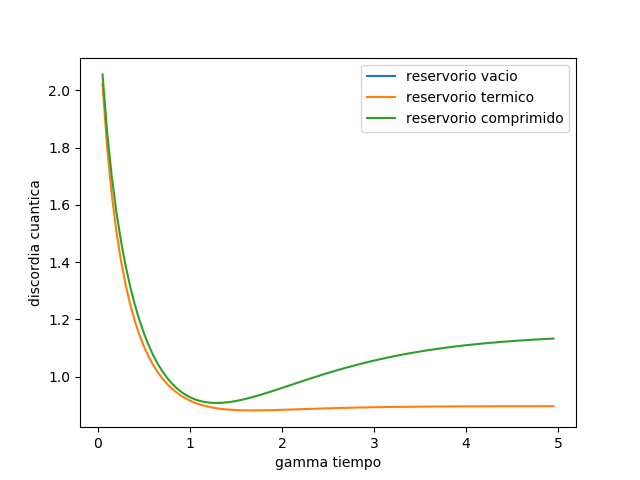
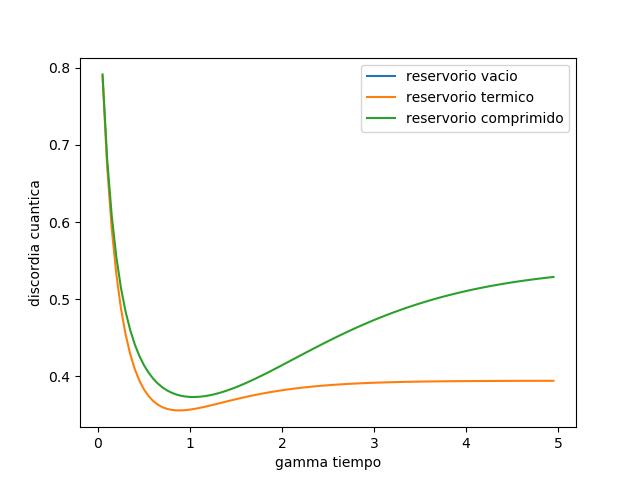
Cambio generado con script

diff --git a/master.py b/master.py
@@ -63,7 +63,7 @@ for i in range (0,100):
       consar=np.array([c1,c2,c3])
       c=np.amax(consar)
       conc_I1_S0S[i]=concurrence(mat)
-      disc_I1_S0S[i]=mat.eigenenergies()[0]*np.log(4*mat.eigenenergies()[0])+mat.eigenenergies()[1]*np.log(4*mat.eigenenergies()[1])+mat.eigenenergies()[2]*np.log(4*mat.eigenenergies()[2])+mat.eigenenergies()[3]*np.log(4*mat.eigenenergies()[3])+0.5*(-(1+c)*np.log2(np.absolute(1+c))-(1-c)*np.log2(np.absolute(1-c)))
+      disc_I1_S0S[i]=mat.eigenenergies()[0]*np.log2(4*mat.eigenenergies()[0])+mat.eigenenergies()[1]*np.log2(4*mat.eigenenergies()[1])+mat.eigenenergies()[2]*np.log2(4*mat.eigenenergies()[2])+mat.eigenenergies()[3]*np.log2(4*mat.eigenenergies()[3])+0.5*(-(1+c)*np.log2(np.absolute(1+c))-(1-c)*np.log2(np.absolute(1-c)))
 
 for i in range (0,100):
       mat=Qobj(em_I2_S0S.states[i])
@@ -74,7 +74,7 @@ for i in range (0,100):
       consar=np.array([c1,c2,c3])
       c=np.amax(consar)
       conc_I2_S0S[i]=concurrence(mat)
-      disc_I2_S0S[i]=mat.eigenenergies()[0]*np.log(4*mat.eigenenergies()[0])+mat.eigenenergies()[1]*np.log(4*mat.eigenenergies()[1])+mat.eigenenergies()[2]*np.log(4*mat.eigenenergies()[2])+mat.eigenenergies()[3]*np.log(4*mat.eigenenergies()[3])+0.5*(-(1+c)*np.log2(np.absolute(1+c))-(1-c)*np.log2(np.absolute(1-c)))
+      disc_I2_S0S[i]=mat.eigenenergies()[0]*np.log2(4*mat.eigenenergies()[0])+mat.eigenenergies()[1]*np.log2(4*mat.eigenenergies()[1])+mat.eigenenergies()[2]*np.log2(4*mat.eigenenergies()[2])+mat.eigenenergies()[3]*np.log2(4*mat.eigenenergies()[3])+0.5*(-(1+c)*np.log2(np.absolute(1+c))-(1-c)*np.log2(np.absolute(1-c)))
 
 
 for i in range (0,100):
@@ -86,7 +86,7 @@ for i in range (0,100):
       consar=np.array([c1,c2,c3])
       c=np.amax(consar)
       conc_I3_S0S[i]=concurrence(mat)
-      disc_I3_S0S[i]=mat.eigenenergies()[0]*np.log(4*mat.eigenenergies()[0])+mat.eigenenergies()[1]*np.log(4*mat.eigenenergies()[1])+mat.eigenenergies()[2]*np.log(4*mat.eigenenergies()[2])+mat.eigenenergies()[3]*np.log(4*mat.eigenenergies()[3])+0.5*(-(1+c)*np.log2(np.absolute(1+c))-(1-c)*np.log2(np.absolute(1-c)))
+      disc_I3_S0S[i]=mat.eigenenergies()[0]*np.log2(4*mat.eigenenergies()[0])+mat.eigenenergies()[1]*np.log2(4*mat.eigenenergies()[1])+mat.eigenenergies()[2]*np.log2(4*mat.eigenenergies()[2])+mat.eigenenergies()[3]*np.log2(4*mat.eigenenergies()[3])+0.5*(-(1+c)*np.log2(np.absolute(1+c))-(1-c)*np.log2(np.absolute(1-c)))
 
 
 for i in range (0,100):
@@ -98,7 +98,7 @@ for i in range (0,100):
       consar=np.array([c1,c2,c3])
       c=np.amax(consar)
       conc_I4_S0S[i]=concurrence(mat)
-      disc_I4_S0S[i]=mat.eigenenergies()[0]*np.log(4*mat.eigenenergies()[0])+mat.eigenenergies()[1]*np.log(4*mat.eigenenergies()[1])+mat.eigenenergies()[2]*np.log(4*mat.eigenenergies()[2])+mat.eigenenergies()[3]*np.log(4*mat.eigenenergies()[3])+0.5*(-(1+c)*np.log2(np.absolute(1+c))-(1-c)*np.log2(np.absolute(1-c)))
+      disc_I4_S0S[i]=mat.eigenenergies()[0]*np.log2(4*mat.eigenenergies()[0])+mat.eigenenergies()[1]*np.log2(4*mat.eigenenergies()[1])+mat.eigenenergies()[2]*np.log2(4*mat.eigenenergies()[2])+mat.eigenenergies()[3]*np.log2(4*mat.eigenenergies()[3])+0.5*(-(1+c)*np.log2(np.absolute(1+c))-(1-c)*np.log2(np.absolute(1-c)))
 
 
 for i in range (0,100):
@@ -110,7 +110,7 @@ for i in range (0,100):
       consar=np.array([c1,c2,c3])
       c=np.amax(consar)
       conc_I5_S0S[i]=concurrence(mat)
-      disc_I5_S0S[i]=mat.eigenenergies()[0]*np.log(4*mat.eigenenergies()[0])+mat.eigenenergies()[1]*np.log(4*mat.eigenenergies()[1])+mat.eigenenergies()[2]*np.log(4*mat.eigenenergies()[2])+mat.eigenenergies()[3]*np.log(4*mat.eigenenergies()[3])+0.5*(-(1+c)*np.log2(np.absolute(1+c))-(1-c)*np.log2(np.absolute(1-c)))
+      disc_I5_S0S[i]=mat.eigenenergies()[0]*np.log2(4*mat.eigenenergies()[0])+mat.eigenenergies()[1]*np.log2(4*mat.eigenenergies()[1])+mat.eigenenergies()[2]*np.log2(4*mat.eigenenergies()[2])+mat.eigenenergies()[3]*np.log2(4*mat.eigenenergies()[3])+0.5*(-(1+c)*np.log2(np.absolute(1+c))-(1-c)*np.log2(np.absolute(1-c)))
 
 
 #Reservorio térmico sin interacción
@@ -133,7 +133,7 @@ for i in range (0,100):
       consar=np.array([c1,c2,c3])
       c=np.amax(consar)
       conc_I1_S1S[i]=concurrence(mat)
-      disc_I1_S1S[i]=mat.eigenenergies()[0]*np.log(4*mat.eigenenergies()[0])+mat.eigenenergies()[1]*np.log(4*mat.eigenenergies()[1])+mat.eigenenergies()[2]*np.log(4*mat.eigenenergies()[2])+mat.eigenenergies()[3]*np.log(4*mat.eigenenergies()[3])+0.5*(-(1+c)*np.log2(np.absolute(1+c))-(1-c)*np.log2(np.absolute(1-c)))
+      disc_I1_S1S[i]=mat.eigenenergies()[0]*np.log2(4*mat.eigenenergies()[0])+mat.eigenenergies()[1]*np.log2(4*mat.eigenenergies()[1])+mat.eigenenergies()[2]*np.log2(4*mat.eigenenergies()[2])+mat.eigenenergies()[3]*np.log2(4*mat.eigenenergies()[3])+0.5*(-(1+c)*np.log2(np.absolute(1+c))-(1-c)*np.log2(np.absolute(1-c)))
 
 
 for i in range (0,100):
@@ -145,7 +145,7 @@ for i in range (0,100):
     consar=np.array([c1,c2,c3])
     c=np.amax(consar)
     conc_I2_S1S[i]=concurrence(mat)
-    disc_I2_S1S[i]=mat.eigenenergies()[0]*np.log(4*mat.eigenenergies()[0])+mat.eigenenergies()[1]*np.log(4*mat.eigenenergies()[1])+mat.eigenenergies()[2]*np.log(4*mat.eigenenergies()[2])+mat.eigenenergies()[3]*np.log(4*mat.eigenenergies()[3])+0.5*(-(1+c)*np.log2(np.absolute(1+c))-(1-c)*np.log2(np.absolute(1-c)))
+    disc_I2_S1S[i]=mat.eigenenergies()[0]*np.log2(4*mat.eigenenergies()[0])+mat.eigenenergies()[1]*np.log2(4*mat.eigenenergies()[1])+mat.eigenenergies()[2]*np.log2(4*mat.eigenenergies()[2])+mat.eigenenergies()[3]*np.log2(4*mat.eigenenergies()[3])+0.5*(-(1+c)*np.log2(np.absolute(1+c))-(1-c)*np.log2(np.absolute(1-c)))
 
 
 for i in range (0,100):
@@ -157,7 +157,7 @@ for i in range (0,100):
     consar=np.array([c1,c2,c3])
     c=np.amax(consar)
     conc_I3_S1S[i]=concurrence(mat)
-    disc_I3_S1S[i]=mat.eigenenergies()[0]*np.log(4*mat.eigenenergies()[0])+mat.eigenenergies()[1]*np.log(4*mat.eigenenergies()[1])+mat.eigenenergies()[2]*np.log(4*mat.eigenenergies()[2])+mat.eigenenergies()[3]*np.log(4*mat.eigenenergies()[3])+0.5*(-(1+c)*np.log2(np.absolute(1+c))-(1-c)*np.log2(np.absolute(1-c)))
+    disc_I3_S1S[i]=mat.eigenenergies()[0]*np.log2(4*mat.eigenenergies()[0])+mat.eigenenergies()[1]*np.log2(4*mat.eigenenergies()[1])+mat.eigenenergies()[2]*np.log2(4*mat.eigenenergies()[2])+mat.eigenenergies()[3]*np.log2(4*mat.eigenenergies()[3])+0.5*(-(1+c)*np.log2(np.absolute(1+c))-(1-c)*np.log2(np.absolute(1-c)))
 
 
 for i in range (0,100):
@@ -169,7 +169,7 @@ for i in range (0,100):
     consar=np.array([c1,c2,c3])
     c=np.amax(consar)
     conc_I4_S1S[i]=concurrence(mat)
-    disc_I4_S1S[i]=mat.eigenenergies()[0]*np.log(4*mat.eigenenergies()[0])+mat.eigenenergies()[1]*np.log(4*mat.eigenenergies()[1])+mat.eigenenergies()[2]*np.log(4*mat.eigenenergies()[2])+mat.eigenenergies()[3]*np.log(4*mat.eigenenergies()[3])+0.5*(-(1+c)*np.log2(np.absolute(1+c))-(1-c)*np.log2(np.absolute(1-c)))
+    disc_I4_S1S[i]=mat.eigenenergies()[0]*np.log2(4*mat.eigenenergies()[0])+mat.eigenenergies()[1]*np.log2(4*mat.eigenenergies()[1])+mat.eigenenergies()[2]*np.log2(4*mat.eigenenergies()[2])+mat.eigenenergies()[3]*np.log2(4*mat.eigenenergies()[3])+0.5*(-(1+c)*np.log2(np.absolute(1+c))-(1-c)*np.log2(np.absolute(1-c)))
 
 
 for i in range (0,100):
@@ -181,7 +181,7 @@ for i in range (0,100):
     consar=np.array([c1,c2,c3])
     c=np.amax(consar)
     conc_I5_S1S[i]=concurrence(mat)
-    disc_I5_S1S[i]=mat.eigenenergies()[0]*np.log(4*mat.eigenenergies()[0])+mat.eigenenergies()[1]*np.log(4*mat.eigenenergies()[1])+mat.eigenenergies()[2]*np.log(4*mat.eigenenergies()[2])+mat.eigenenergies()[3]*np.log(4*mat.eigenenergies()[3])+0.5*(-(1+c)*np.log2(np.absolute(1+c))-(1-c)*np.log2(np.absolute(1-c)))
+    disc_I5_S1S[i]=mat.eigenenergies()[0]*np.log2(4*mat.eigenenergies()[0])+mat.eigenenergies()[1]*np.log2(4*mat.eigenenergies()[1])+mat.eigenenergies()[2]*np.log2(4*mat.eigenenergies()[2])+mat.eigenenergies()[3]*np.log2(4*mat.eigenenergies()[3])+0.5*(-(1+c)*np.log2(np.absolute(1+c))-(1-c)*np.log2(np.absolute(1-c)))
 
 
 #Reservorio comprimido sin interacción
@@ -204,7 +204,7 @@ for i in range (0,100):
     consar=np.array([c1,c2,c3])
     c=np.amax(consar)
     conc_I1_S2S[i]=concurrence(mat)
-    disc_I1_S2S[i]=mat.eigenenergies()[0]*np.log(4*mat.eigenenergies()[0])+mat.eigenenergies()[1]*np.log(4*mat.eigenenergies()[1])+mat.eigenenergies()[2]*np.log(4*mat.eigenenergies()[2])+mat.eigenenergies()[3]*np.log(4*mat.eigenenergies()[3])+0.5*(-(1+c)*np.log2(np.absolute(1+c))-(1-c)*np.log2(np.absolute(1-c)))
+    disc_I1_S2S[i]=mat.eigenenergies()[0]*np.log2(4*mat.eigenenergies()[0])+mat.eigenenergies()[1]*np.log2(4*mat.eigenenergies()[1])+mat.eigenenergies()[2]*np.log2(4*mat.eigenenergies()[2])+mat.eigenenergies()[3]*np.log2(4*mat.eigenenergies()[3])+0.5*(-(1+c)*np.log2(np.absolute(1+c))-(1-c)*np.log2(np.absolute(1-c)))
 
 for i in range (0,100):
     mat=Qobj(em_I2_S2S.states[i])
@@ -215,7 +215,7 @@ for i in range (0,100):
     consar=np.array([c1,c2,c3])
     c=np.amax(consar)
     conc_I2_S2S[i]=concurrence(mat)
-    disc_I2_S2S[i]=mat.eigenenergies()[0]*np.log(4*mat.eigenenergies()[0])+mat.eigenenergies()[1]*np.log(4*mat.eigenenergies()[1])+mat.eigenenergies()[2]*np.log(4*mat.eigenenergies()[2])+mat.eigenenergies()[3]*np.log(4*mat.eigenenergies()[3])+0.5*(-(1+c)*np.log2(np.absolute(1+c))-(1-c)*np.log2(np.absolute(1-c)))
+    disc_I2_S2S[i]=mat.eigenenergies()[0]*np.log2(4*mat.eigenenergies()[0])+mat.eigenenergies()[1]*np.log2(4*mat.eigenenergies()[1])+mat.eigenenergies()[2]*np.log2(4*mat.eigenenergies()[2])+mat.eigenenergies()[3]*np.log2(4*mat.eigenenergies()[3])+0.5*(-(1+c)*np.log2(np.absolute(1+c))-(1-c)*np.log2(np.absolute(1-c)))
 
 for i in range (0,100):
     mat=Qobj(em_I3_S2S.states[i])
@@ -226,7 +226,7 @@ for i in range (0,100):
     consar=np.array([c1,c2,c3])
     c=np.amax(consar)
     conc_I3_S2S[i]=concurrence(mat)
-    disc_I3_S2S[i]=mat.eigenenergies()[0]*np.log(4*mat.eigenenergies()[0])+mat.eigenenergies()[1]*np.log(4*mat.eigenenergies()[1])+mat.eigenenergies()[2]*np.log(4*mat.eigenenergies()[2])+mat.eigenenergies()[3]*np.log(4*mat.eigenenergies()[3])+0.5*(-(1+c)*np.log2(np.absolute(1+c))-(1-c)*np.log2(np.absolute(1-c)))
+    disc_I3_S2S[i]=mat.eigenenergies()[0]*np.log2(4*mat.eigenenergies()[0])+mat.eigenenergies()[1]*np.log2(4*mat.eigenenergies()[1])+mat.eigenenergies()[2]*np.log2(4*mat.eigenenergies()[2])+mat.eigenenergies()[3]*np.log2(4*mat.eigenenergies()[3])+0.5*(-(1+c)*np.log2(np.absolute(1+c))-(1-c)*np.log2(np.absolute(1-c)))
 
 
 for i in range (0,100):
@@ -238,7 +238,7 @@ for i in range (0,100):
     consar=np.array([c1,c2,c3])
     c=np.amax(consar)
     conc_I4_S2S[i]=concurrence(mat)
-    disc_I4_S2S[i]=mat.eigenenergies()[0]*np.log(4*mat.eigenenergies()[0])+mat.eigenenergies()[1]*np.log(4*mat.eigenenergies()[1])+mat.eigenenergies()[2]*np.log(4*mat.eigenenergies()[2])+mat.eigenenergies()[3]*np.log(4*mat.eigenenergies()[3])+0.5*(-(1+c)*np.log2(np.absolute(1+c))-(1-c)*np.log2(np.absolute(1-c)))
+    disc_I4_S2S[i]=mat.eigenenergies()[0]*np.log2(4*mat.eigenenergies()[0])+mat.eigenenergies()[1]*np.log2(4*mat.eigenenergies()[1])+mat.eigenenergies()[2]*np.log2(4*mat.eigenenergies()[2])+mat.eigenenergies()[3]*np.log2(4*mat.eigenenergies()[3])+0.5*(-(1+c)*np.log2(np.absolute(1+c))-(1-c)*np.log2(np.absolute(1-c)))
 
 
 for i in range (0,100):
@@ -250,7 +250,7 @@ for i in range (0,100):
     consar=np.array([c1,c2,c3])
     c=np.amax(consar)
     conc_I5_S2S[i]=concurrence(mat)
-    disc_I5_S2S[i]=mat.eigenenergies()[0]*np.log(4*mat.eigenenergies()[0])+mat.eigenenergies()[1]*np.log(4*mat.eigenenergies()[1])+mat.eigenenergies()[2]*np.log(4*mat.eigenenergies()[2])+mat.eigenenergies()[3]*np.log(4*mat.eigenenergies()[3])+0.5*(-(1+c)*np.log2(np.absolute(1+c))-(1-c)*np.log2(np.absolute(1-c)))
+    disc_I5_S2S[i]=mat.eigenenergies()[0]*np.log2(4*mat.eigenenergies()[0])+mat.eigenenergies()[1]*np.log2(4*mat.eigenenergies()[1])+mat.eigenenergies()[2]*np.log2(4*mat.eigenenergies()[2])+mat.eigenenergies()[3]*np.log2(4*mat.eigenenergies()[3])+0.5*(-(1+c)*np.log2(np.absolute(1+c))-(1-c)*np.log2(np.absolute(1-c)))
 
 
 #Reservorio vacío con interacción
@@ -273,7 +273,7 @@ for i in range (0,100):
     consar=np.array([c1,c2,c3])
     c=np.amax(consar)
     conc_I1_S0C[i]=concurrence(mat)
-    disc_I1_S0C[i]=mat.eigenenergies()[0]*np.log(4*mat.eigenenergies()[0])+mat.eigenenergies()[1]*np.log(4*mat.eigenenergies()[1])+mat.eigenenergies()[2]*np.log(4*mat.eigenenergies()[2])+mat.eigenenergies()[3]*np.log(4*mat.eigenenergies()[3])+0.5*(-(1+c)*np.log2(np.absolute(1+c))-(1-c)*np.log2(np.absolute(1-c)))
+    disc_I1_S0C[i]=mat.eigenenergies()[0]*np.log2(4*mat.eigenenergies()[0])+mat.eigenenergies()[1]*np.log2(4*mat.eigenenergies()[1])+mat.eigenenergies()[2]*np.log2(4*mat.eigenenergies()[2])+mat.eigenenergies()[3]*np.log2(4*mat.eigenenergies()[3])+0.5*(-(1+c)*np.log2(np.absolute(1+c))-(1-c)*np.log2(np.absolute(1-c)))
 
 
 for i in range (0,100):
@@ -285,7 +285,7 @@ for i in range (0,100):
     consar=np.array([c1,c2,c3])
     c=np.amax(consar)
     conc_I2_S0C[i]=concurrence(mat)
-    disc_I2_S0C[i]=mat.eigenenergies()[0]*np.log(4*mat.eigenenergies()[0])+mat.eigenenergies()[1]*np.log(4*mat.eigenenergies()[1])+mat.eigenenergies()[2]*np.log(4*mat.eigenenergies()[2])+mat.eigenenergies()[3]*np.log(4*mat.eigenenergies()[3])+0.5*(-(1+c)*np.log2(np.absolute(1+c))-(1-c)*np.log2(np.absolute(1-c)))
+    disc_I2_S0C[i]=mat.eigenenergies()[0]*np.log2(4*mat.eigenenergies()[0])+mat.eigenenergies()[1]*np.log2(4*mat.eigenenergies()[1])+mat.eigenenergies()[2]*np.log2(4*mat.eigenenergies()[2])+mat.eigenenergies()[3]*np.log2(4*mat.eigenenergies()[3])+0.5*(-(1+c)*np.log2(np.absolute(1+c))-(1-c)*np.log2(np.absolute(1-c)))
 
 
 for i in range (0,100):
@@ -297,7 +297,7 @@ for i in range (0,100):
     consar=np.array([c1,c2,c3])
     c=np.amax(consar)
     conc_I3_S0C[i]=concurrence(mat)
-    disc_I3_S0C[i]=mat.eigenenergies()[0]*np.log(4*mat.eigenenergies()[0])+mat.eigenenergies()[1]*np.log(4*mat.eigenenergies()[1])+mat.eigenenergies()[2]*np.log(4*mat.eigenenergies()[2])+mat.eigenenergies()[3]*np.log(4*mat.eigenenergies()[3])+0.5*(-(1+c)*np.log2(np.absolute(1+c))-(1-c)*np.log2(np.absolute(1-c)))
+    disc_I3_S0C[i]=mat.eigenenergies()[0]*np.log2(4*mat.eigenenergies()[0])+mat.eigenenergies()[1]*np.log2(4*mat.eigenenergies()[1])+mat.eigenenergies()[2]*np.log2(4*mat.eigenenergies()[2])+mat.eigenenergies()[3]*np.log2(4*mat.eigenenergies()[3])+0.5*(-(1+c)*np.log2(np.absolute(1+c))-(1-c)*np.log2(np.absolute(1-c)))
 
 
 for i in range (0,100):
@@ -309,7 +309,7 @@ for i in range (0,100):
     consar=np.array([c1,c2,c3])
     c=np.amax(consar)
     conc_I4_S0C[i]=concurrence(mat)
-    disc_I4_S0C[i]=mat.eigenenergies()[0]*np.log(4*mat.eigenenergies()[0])+mat.eigenenergies()[1]*np.log(4*mat.eigenenergies()[1])+mat.eigenenergies()[2]*np.log(4*mat.eigenenergies()[2])+mat.eigenenergies()[3]*np.log(4*mat.eigenenergies()[3])+0.5*(-(1+c)*np.log2(np.absolute(1+c))-(1-c)*np.log2(np.absolute(1-c)))
+    disc_I4_S0C[i]=mat.eigenenergies()[0]*np.log2(4*mat.eigenenergies()[0])+mat.eigenenergies()[1]*np.log2(4*mat.eigenenergies()[1])+mat.eigenenergies()[2]*np.log2(4*mat.eigenenergies()[2])+mat.eigenenergies()[3]*np.log2(4*mat.eigenenergies()[3])+0.5*(-(1+c)*np.log2(np.absolute(1+c))-(1-c)*np.log2(np.absolute(1-c)))
 
 
 for i in range (0,100):
@@ -321,7 +321,7 @@ for i in range (0,100):
     consar=np.array([c1,c2,c3])
     c=np.amax(consar)
     conc_I5_S0C[i]=concurrence(mat)
-    disc_I5_S0C[i]=mat.eigenenergies()[0]*np.log(4*mat.eigenenergies()[0])+mat.eigenenergies()[1]*np.log(4*mat.eigenenergies()[1])+mat.eigenenergies()[2]*np.log(4*mat.eigenenergies()[2])+mat.eigenenergies()[3]*np.log(4*mat.eigenenergies()[3])+0.5*(-(1+c)*np.log2(np.absolute(1+c))-(1-c)*np.log2(np.absolute(1-c)))
+    disc_I5_S0C[i]=mat.eigenenergies()[0]*np.log2(4*mat.eigenenergies()[0])+mat.eigenenergies()[1]*np.log2(4*mat.eigenenergies()[1])+mat.eigenenergies()[2]*np.log2(4*mat.eigenenergies()[2])+mat.eigenenergies()[3]*np.log2(4*mat.eigenenergies()[3])+0.5*(-(1+c)*np.log2(np.absolute(1+c))-(1-c)*np.log2(np.absolute(1-c)))
 
 
 #Reservorio térmico con interacción
@@ -344,7 +344,7 @@ for i in range (0,100):
     consar=np.array([c1,c2,c3])
     c=np.amax(consar)
     conc_I1_S1C[i]=concurrence(mat)
-    disc_I1_S1C[i]=mat.eigenenergies()[0]*np.log(4*mat.eigenenergies()[0])+mat.eigenenergies()[1]*np.log(4*mat.eigenenergies()[1])+mat.eigenenergies()[2]*np.log(4*mat.eigenenergies()[2])+mat.eigenenergies()[3]*np.log(4*mat.eigenenergies()[3])+0.5*(-(1+c)*np.log2(np.absolute(1+c))-(1-c)*np.log2(np.absolute(1-c)))
+    disc_I1_S1C[i]=mat.eigenenergies()[0]*np.log2(4*mat.eigenenergies()[0])+mat.eigenenergies()[1]*np.log2(4*mat.eigenenergies()[1])+mat.eigenenergies()[2]*np.log2(4*mat.eigenenergies()[2])+mat.eigenenergies()[3]*np.log2(4*mat.eigenenergies()[3])+0.5*(-(1+c)*np.log2(np.absolute(1+c))-(1-c)*np.log2(np.absolute(1-c)))
 
     
 for i in range (0,100):
@@ -356,7 +356,7 @@ for i in range (0,100):
     consar=np.array([c1,c2,c3])
     c=np.amax(consar)
     conc_I2_S1C[i]=concurrence(mat)
-    disc_I2_S1C[i]=mat.eigenenergies()[0]*np.log(4*mat.eigenenergies()[0])+mat.eigenenergies()[1]*np.log(4*mat.eigenenergies()[1])+mat.eigenenergies()[2]*np.log(4*mat.eigenenergies()[2])+mat.eigenenergies()[3]*np.log(4*mat.eigenenergies()[3])+0.5*(-(1+c)*np.log2(np.absolute(1+c))-(1-c)*np.log2(np.absolute(1-c)))
+    disc_I2_S1C[i]=mat.eigenenergies()[0]*np.log2(4*mat.eigenenergies()[0])+mat.eigenenergies()[1]*np.log2(4*mat.eigenenergies()[1])+mat.eigenenergies()[2]*np.log2(4*mat.eigenenergies()[2])+mat.eigenenergies()[3]*np.log2(4*mat.eigenenergies()[3])+0.5*(-(1+c)*np.log2(np.absolute(1+c))-(1-c)*np.log2(np.absolute(1-c)))
 
 
 for i in range (0,100):
@@ -368,7 +368,7 @@ for i in range (0,100):
     consar=np.array([c1,c2,c3])
     c=np.amax(consar)
     conc_I3_S1C[i]=concurrence(mat)
-    disc_I3_S1C[i]=mat.eigenenergies()[0]*np.log(4*mat.eigenenergies()[0])+mat.eigenenergies()[1]*np.log(4*mat.eigenenergies()[1])+mat.eigenenergies()[2]*np.log(4*mat.eigenenergies()[2])+mat.eigenenergies()[3]*np.log(4*mat.eigenenergies()[3])+0.5*(-(1+c)*np.log2(np.absolute(1+c))-(1-c)*np.log2(np.absolute(1-c)))
+    disc_I3_S1C[i]=mat.eigenenergies()[0]*np.log2(4*mat.eigenenergies()[0])+mat.eigenenergies()[1]*np.log2(4*mat.eigenenergies()[1])+mat.eigenenergies()[2]*np.log2(4*mat.eigenenergies()[2])+mat.eigenenergies()[3]*np.log2(4*mat.eigenenergies()[3])+0.5*(-(1+c)*np.log2(np.absolute(1+c))-(1-c)*np.log2(np.absolute(1-c)))
 
 
 for i in range (0,100):
@@ -380,7 +380,7 @@ for i in range (0,100):
     consar=np.array([c1,c2,c3])
     c=np.amax(consar)
     conc_I4_S1C[i]=concurrence(mat)
-    disc_I4_S1C[i]=mat.eigenenergies()[0]*np.log(4*mat.eigenenergies()[0])+mat.eigenenergies()[1]*np.log(4*mat.eigenenergies()[1])+mat.eigenenergies()[2]*np.log(4*mat.eigenenergies()[2])+mat.eigenenergies()[3]*np.log(4*mat.eigenenergies()[3])+0.5*(-(1+c)*np.log2(np.absolute(1+c))-(1-c)*np.log2(np.absolute(1-c)))
+    disc_I4_S1C[i]=mat.eigenenergies()[0]*np.log2(4*mat.eigenenergies()[0])+mat.eigenenergies()[1]*np.log2(4*mat.eigenenergies()[1])+mat.eigenenergies()[2]*np.log2(4*mat.eigenenergies()[2])+mat.eigenenergies()[3]*np.log2(4*mat.eigenenergies()[3])+0.5*(-(1+c)*np.log2(np.absolute(1+c))-(1-c)*np.log2(np.absolute(1-c)))
 
 
 for i in range (0,100):
@@ -392,7 +392,7 @@ for i in range (0,100):
     consar=np.array([c1,c2,c3])
     c=np.amax(consar)
     conc_I5_S1C[i]=concurrence(mat)
-    disc_I5_S1C[i]=mat.eigenenergies()[0]*np.log(4*mat.eigenenergies()[0])+mat.eigenenergies()[1]*np.log(4*mat.eigenenergies()[1])+mat.eigenenergies()[2]*np.log(4*mat.eigenenergies()[2])+mat.eigenenergies()[3]*np.log(4*mat.eigenenergies()[3])+0.5*(-(1+c)*np.log2(np.absolute(1+c))-(1-c)*np.log2(np.absolute(1-c)))
+    disc_I5_S1C[i]=mat.eigenenergies()[0]*np.log2(4*mat.eigenenergies()[0])+mat.eigenenergies()[1]*np.log2(4*mat.eigenenergies()[1])+mat.eigenenergies()[2]*np.log2(4*mat.eigenenergies()[2])+mat.eigenenergies()[3]*np.log2(4*mat.eigenenergies()[3])+0.5*(-(1+c)*np.log2(np.absolute(1+c))-(1-c)*np.log2(np.absolute(1-c)))
 
 
 #Reservorio comprimido con interacción
@@ -415,7 +415,7 @@ for i in range (0,100):
     consar=np.array([c1,c2,c3])
     c=np.amax(consar)
     conc_I1_S2C[i]=concurrence(mat)
-    disc_I1_S2C[i]=mat.eigenenergies()[0]*np.log(4*mat.eigenenergies()[0])+mat.eigenenergies()[1]*np.log(4*mat.eigenenergies()[1])+mat.eigenenergies()[2]*np.log(4*mat.eigenenergies()[2])+mat.eigenenergies()[3]*np.log(4*mat.eigenenergies()[3])+0.5*(-(1+c)*np.log2(np.absolute(1+c))-(1-c)*np.log2(np.absolute(1-c)))
+    disc_I1_S2C[i]=mat.eigenenergies()[0]*np.log2(4*mat.eigenenergies()[0])+mat.eigenenergies()[1]*np.log2(4*mat.eigenenergies()[1])+mat.eigenenergies()[2]*np.log2(4*mat.eigenenergies()[2])+mat.eigenenergies()[3]*np.log2(4*mat.eigenenergies()[3])+0.5*(-(1+c)*np.log2(np.absolute(1+c))-(1-c)*np.log2(np.absolute(1-c)))
 
 for i in range (0,100):
     mat=Qobj(em_I2_S2C.states[i])
@@ -426,7 +426,7 @@ for i in range (0,100):
     consar=np.array([c1,c2,c3])
     c=np.amax(consar)
     conc_I2_S2C[i]=concurrence(mat)
-    disc_I2_S2C[i]=mat.eigenenergies()[0]*np.log(4*mat.eigenenergies()[0])+mat.eigenenergies()[1]*np.log(4*mat.eigenenergies()[1])+mat.eigenenergies()[2]*np.log(4*mat.eigenenergies()[2])+mat.eigenenergies()[3]*np.log(4*mat.eigenenergies()[3])+0.5*(-(1+c)*np.log2(np.absolute(1+c))-(1-c)*np.log2(np.absolute(1-c)))
+    disc_I2_S2C[i]=mat.eigenenergies()[0]*np.log2(4*mat.eigenenergies()[0])+mat.eigenenergies()[1]*np.log2(4*mat.eigenenergies()[1])+mat.eigenenergies()[2]*np.log2(4*mat.eigenenergies()[2])+mat.eigenenergies()[3]*np.log2(4*mat.eigenenergies()[3])+0.5*(-(1+c)*np.log2(np.absolute(1+c))-(1-c)*np.log2(np.absolute(1-c)))
 for i in range (0,100):
     mat=Qobj(em_I3_S2C.states[i])
     c1=0.5*mat.eigenenergies()[2]+mat.eigenenergies()[3]-mat.eigenenergies()[0]-mat.eigenenergies()[1]
@@ -436,7 +436,7 @@ for i in range (0,100):
     consar=np.array([c1,c2,c3])
     c=np.amax(consar)
     conc_I3_S2C[i]=concurrence(mat)
-    disc_I3_S2C[i]=mat.eigenenergies()[0]*np.log(4*mat.eigenenergies()[0])+mat.eigenenergies()[1]*np.log(4*mat.eigenenergies()[1])+mat.eigenenergies()[2]*np.log(4*mat.eigenenergies()[2])+mat.eigenenergies()[3]*np.log(4*mat.eigenenergies()[3])+0.5*(-(1+c)*np.log2(np.absolute(1+c))-(1-c)*np.log2(np.absolute(1-c)))
+    disc_I3_S2C[i]=mat.eigenenergies()[0]*np.log2(4*mat.eigenenergies()[0])+mat.eigenenergies()[1]*np.log2(4*mat.eigenenergies()[1])+mat.eigenenergies()[2]*np.log2(4*mat.eigenenergies()[2])+mat.eigenenergies()[3]*np.log2(4*mat.eigenenergies()[3])+0.5*(-(1+c)*np.log2(np.absolute(1+c))-(1-c)*np.log2(np.absolute(1-c)))
 
 
 for i in range (0,100):
@@ -448,7 +448,7 @@ for i in range (0,100):
     consar=np.array([c1,c2,c3])
     c=np.amax(consar)
     conc_I4_S2C[i]=concurrence(mat)
-    disc_I4_S2C[i]=mat.eigenenergies()[0]*np.log(4*mat.eigenenergies()[0])+mat.eigenenergies()[1]*np.log(4*mat.eigenenergies()[1])+mat.eigenenergies()[2]*np.log(4*mat.eigenenergies()[2])+mat.eigenenergies()[3]*np.log(4*mat.eigenenergies()[3])+0.5*(-(1+c)*np.log2(np.absolute(1+c))-(1-c)*np.log2(np.absolute(1-c)))
+    disc_I4_S2C[i]=mat.eigenenergies()[0]*np.log2(4*mat.eigenenergies()[0])+mat.eigenenergies()[1]*np.log2(4*mat.eigenenergies()[1])+mat.eigenenergies()[2]*np.log2(4*mat.eigenenergies()[2])+mat.eigenenergies()[3]*np.log2(4*mat.eigenenergies()[3])+0.5*(-(1+c)*np.log2(np.absolute(1+c))-(1-c)*np.log2(np.absolute(1-c)))
 
 
 for i in range (0,100):
